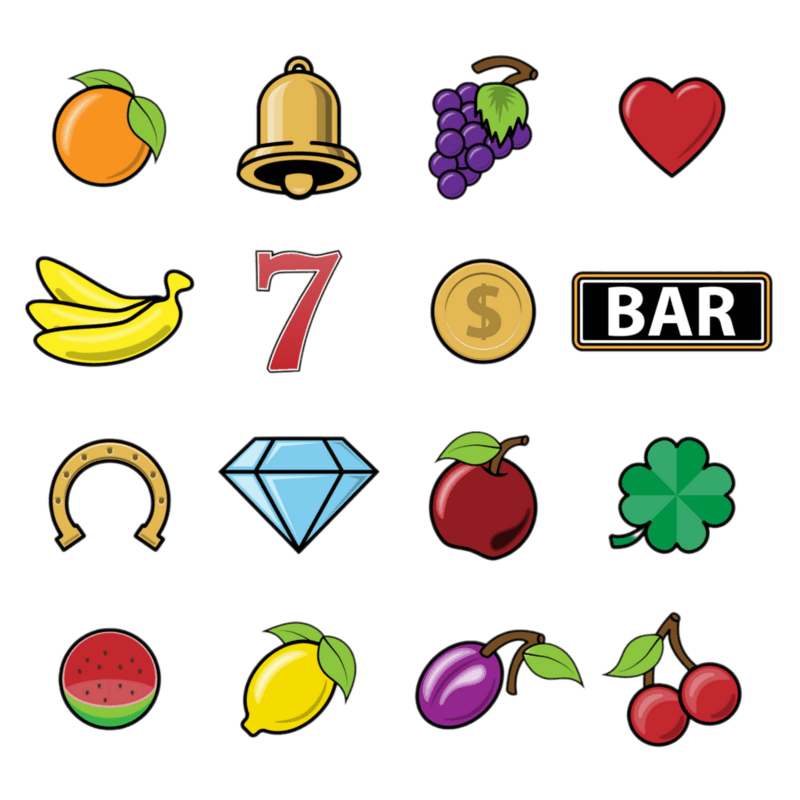
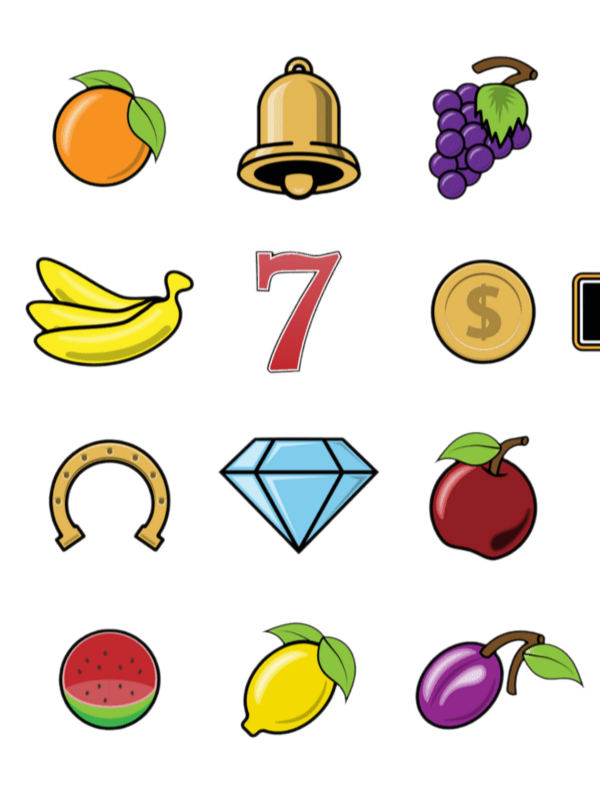
tocky

diff --git a/client/src/pages/Tocky/Tocky.jsx b/client/src/pages/Tocky/Tocky.jsx
@@ -9,16 +9,21 @@ export default function Tocky() {
     const [spinValue, setSpinValue] = useState(1);
     const [spinValueIndex, setSpinValueIndex] = useState(0);
     const spinValuesConstant = [1, 2, 5, 10, 20, 50, 100, 200, 500, 1000];
-    const [backgroundPosition, setBackgroundPosition] = useState("0px 0px");
+    const [backgroundPosition, setBackgroundPosition] = useState(Array(9).fill("0px 0px"));
+
+    console.log(backgroundPosition);
 
     const repeat = () => {
         console.log("točka", spinValue);
 
-        const num = randomNumber(spinTypesArray.length);
-        const spinType = spinTypesArray[num];
-        const position = spinTypes[spinType].position;
-        console.log(position);
-        setBackgroundPosition(`${position.x}px ${position.y}px`);
+        const newBackgroundPositions = []
+        for (let i = 0; i < backgroundPosition.length; i++) {
+            const num = randomNumber(spinTypesArray.length);
+            const spinType = spinTypesArray[num];
+            const newPosition = spinTypes[spinType].position;
+            newBackgroundPositions.push(`${newPosition.x}px ${newPosition.y}px`);
+        }
+        setBackgroundPosition(newBackgroundPositions)
     };
 
     const add = () => {
@@ -46,8 +51,20 @@ export default function Tocky() {
     return (
         <>
             <h1>tocky</h1>
-            <div className="tocka" style={{backgroundPosition: backgroundPosition}}></div>
-            <p>hodnota sazky</p>
+            <div className="spinGrid">
+                {backgroundPosition.map((position, index) => {
+                    return <div className="tocka" style={{ backgroundPosition: position }} key={index}></div>
+                })}
+                {/* <div className="tocka" style={{ backgroundPosition: backgroundPosition }}></div>
+                <div className="tocka" style={{ backgroundPosition: backgroundPosition }}></div>
+                <div className="tocka" style={{ backgroundPosition: backgroundPosition }}></div>
+                <div className="tocka" style={{ backgroundPosition: backgroundPosition }}></div>
+                <div className="tocka" style={{ backgroundPosition: backgroundPosition }}></div>
+                <div className="tocka" style={{ backgroundPosition: backgroundPosition }}></div>
+                <div className="tocka" style={{ backgroundPosition: backgroundPosition }}></div>
+                <div className="tocka" style={{ backgroundPosition: backgroundPosition }}></div>
+                <div className="tocka" style={{ backgroundPosition: backgroundPosition }}></div> */}
+            </div>
             <div className="spinValue">
                 <button onClick={remove}>
                     <RemoveIcon></RemoveIcon>

diff --git a/client/src/pages/Tocky/Tocky.css b/client/src/pages/Tocky/Tocky.css
@@ -1,5 +1,11 @@
+.spinGrid {
+    display: grid;
+    grid-template-columns: repeat(3, 1fr);
+    grid-template-rows: repeat(3, 1fr);
+}
+
 .tocka {
-    background-image: url("../../assets/spinTypes.png");
+    background-image: url("../../assets/spinTypes2.png");
     width: 200px;
     height: 200px;
     object-fit: contain;
